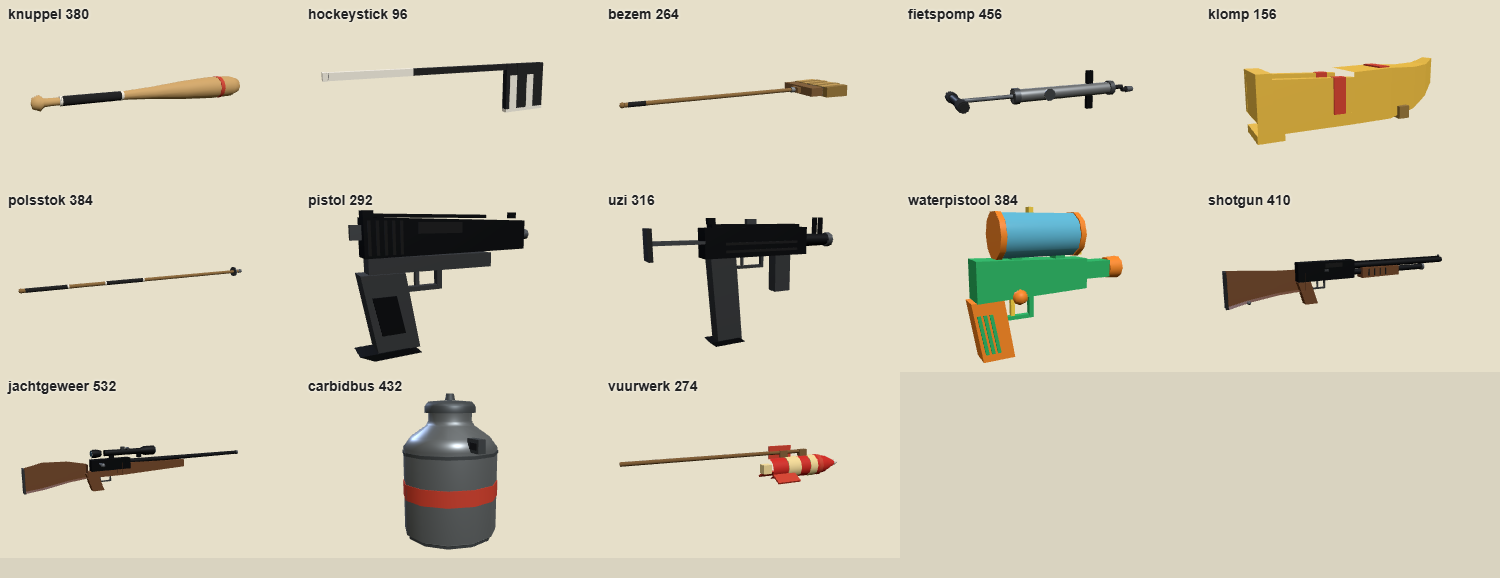
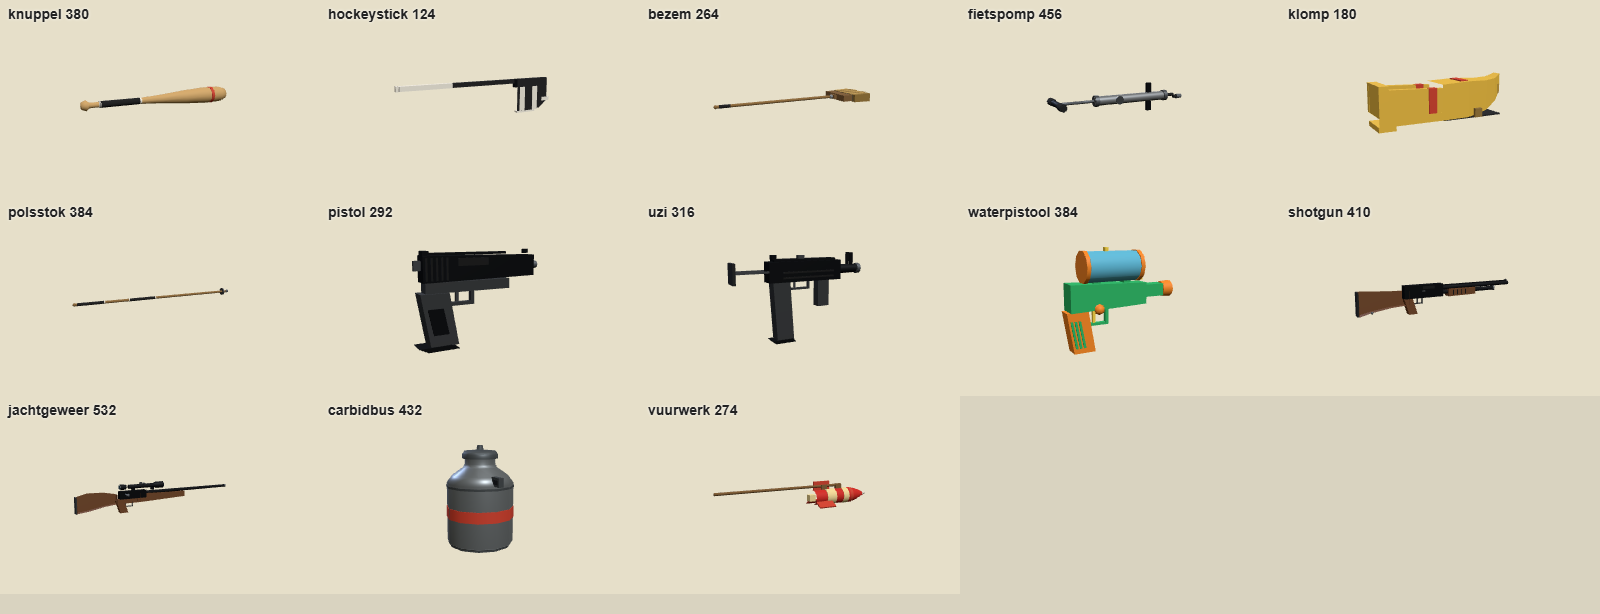
Spullen ronde 2: twaalf kale winkelblokjes krijgen een eigen model (spaarkaart, kauwgom, pakket, tv, ehbo, koek, drop, accu, remschijf, bureau, frituurpan, bed); hockeystick met gebogen blad, klomp met zool; test en beeldblad (#1086)

diff --git a/game/js/models3d_spullen.js b/game/js/models3d_spullen.js
@@ -199,7 +199,176 @@ function neonmeeuw(g, { kleur = 0xff4fa8 } = {}) {
   add(g, cyl(0.05, 0.05, 0.9, 6), mat(0x3a3e44, 0.5), 0, 0.5, 0);
 }
 
-const BOUWERS = { geld: money, vis, aanwijzing, geheim: secret, motor: engine, bredeband, sperdiff, uitlaat, mosterd, bel, neonmeeuw };
+// ---- Ronde 2 (spullen-r2): herkenbare modellen voor wat eerst een kaal winkelblokje was (12 tot 150 driehoeken). Geen tekst of merk;
+// elk ding heeft een eigen silhouet en twee tot vier materialen. Eenheden zoals hierboven (1 = 10 cm).
+
+// Spaarkaart: twee kaarten waaiervormig, voorop een stempelraster (gevulde en lege rondjes) en een lichte strook.
+function spaarkaart(g) {
+  add(g, box(5.4, 0.1, 3.4), mat(0x2f5c8a, 0.5), 0.35, 0.05, -0.15, 0, 0.22);
+  add(g, box(5.4, 0.12, 3.4), mat(0xc23f78, 0.5), 0, 0.16, 0);
+  add(g, box(5.4, 0.14, 0.7), mat(0xf0ede4, 0.6), 0, 0.17, -1.25);
+  for (let r = 0; r < 2; r++) for (let i = 0; i < 5; i++) {
+    const vol = r * 5 + i < 6;
+    add(g, cyl(0.3, 0.3, vol ? 0.1 : 0.04, 14), vol ? mat(0xe8c93a, 0.35, 0.7) : mat(0xf0ede4, 0.6), -2.0 + i * 1.0, 0.26, 0.25 + r * 1.0);
+  }
+  add(g, box(0.7, 0.06, 0.5), mat(0xe8c93a, 0.3, 0.8), 2.1, 0.25, 1.35); // chipje
+}
+
+// Kauwgom: een pakje met een opengescheurde bovenkant, folie en drie waaiervormige stukjes.
+function kauwgom(g) {
+  add(g, box(1.9, 0.5, 3.6), mat(0x1e5ea8, 0.5), 0, 0.25, 0);
+  add(g, box(1.94, 0.3, 1.2), mat(0xe8f4f8, 0.4), 0, 0.26, 0.9);
+  add(g, box(1.6, 0.05, 0.9), mat(0xc8ced2, 0.25, 0.85), 0, 0.52, -1.45);
+  for (let i = 0; i < 3; i++) add(g, box(1.3, 0.06, 2.4), mat(i % 2 ? 0xe8f4f8 : 0xcfe9ee, 0.5), 0, 0.62 + i * 0.07, -1.9, -0.25 - i * 0.12, (i - 1) * 0.12);
+  add(g, box(0.5, 0.52, 3.64), mat(0x3fb8c8, 0.5), -0.55, 0.26, 0);
+  add(g, box(0.18, 0.54, 3.64), mat(0xe8f4f8, 0.4), 0.55, 0.27, 0); // twee strepen over de lengte
+  add(g, box(1.9, 0.06, 0.3), mat(0xc8ced2, 0.25, 0.85), 0, 0.53, -1.8, -0.2, 0, 0); // gescheurde folierand
+  add(g, ball(0.2, 8), mat(0x6ad0a0, 0.5), 0.5, 0.55, 1.1).scale.set(1.2, 0.4, 1.0); // muntblaadje
+}
+
+// Pakket: een kartonnen doos met plakband kruislings, een adreslabel (zonder tekst) en een strikje.
+function pakket(g) {
+  add(g, box(3.6, 2.6, 2.8), mat(0xb08a58, 0.85), 0, 1.3, 0);
+  add(g, box(0.55, 0.05, 2.84), mat(0xd8c090, 0.4), 0, 2.62, 0); // tape over de bovenkant
+  add(g, box(0.55, 2.62, 0.05), mat(0xd8c090, 0.4), 0, 1.3, 1.42);
+  add(g, box(1.2, 0.8, 0.04), mat(0xf0ede4, 0.7), -0.9, 1.5, 1.44);
+  for (let i = 0; i < 3; i++) add(g, box(0.8 - i * 0.15, 0.06, 0.05), mat(0x4a4a50, 0.7), -0.9, 1.7 - i * 0.2, 1.47);
+  add(g, box(3.64, 0.14, 0.4), mat(0x9a7648, 0.9), 0, 2.45, -0.9, 0, 0, 0.02); // flap
+  add(g, new THREE.TorusGeometry(0.28, 0.04, 6, 12), mat(0xc8261e, 0.7), 0.9, 2.8, 0, Math.PI / 2, 0, 0);
+}
+
+// Televisie: een kijkdoos met scherm, twee knoppen, voetjes en een antenne.
+function tv(g) {
+  add(g, box(4.6, 3.2, 2.4), mat(0x2a2c30, 0.5), 0, 2.1, 0);
+  add(g, box(3.5, 2.4, 0.08), glow(0x6a9ac0, 0.55), -0.3, 2.15, 1.24);
+  add(g, box(0.7, 2.4, 0.08), mat(0x3a3e44, 0.5), 1.75, 2.15, 1.24);
+  for (let i = 0; i < 2; i++) add(g, cyl(0.17, 0.17, 0.14, 10), mat(0xb8bec4, 0.3, 0.8), 1.75, 2.7 - i * 0.55, 1.33, Math.PI / 2);
+  add(g, box(0.5, 0.3, 0.06), mat(0x5a5f66, 0.5), 1.75, 1.3, 1.28);
+  for (const x of [-1.8, 1.8]) add(g, box(0.5, 0.35, 1.8), mat(0x1b1c1f, 0.7), x, 0.18, 0);
+  add(g, cyl(0.05, 0.05, 2.4, 6), mat(METAAL, 0.3, 0.9), -0.7, 4.6, 0, 0, 0, 0.55);
+  add(g, cyl(0.05, 0.05, 2.4, 6), mat(METAAL, 0.3, 0.9), 0.7, 4.6, 0, 0, 0, -0.55);
+  add(g, cyl(0.45, 0.6, 0.3, 12), mat(0x1b1c1f, 0.6), 0, 3.85, 0);
+}
+
+// EHBO-doos: groen koffertje met wit kruis, hengsel, twee sluitingen en een rolletje verband ernaast.
+function ehbo(g) {
+  add(g, box(4.0, 2.8, 1.6), mat(0x1e9e56, 0.5), 0, 1.4, 0);
+  add(g, box(4.04, 0.12, 1.64), mat(0x137a41, 0.5), 0, 1.5, 0);
+  add(g, box(1.8, 0.5, 0.06), mat(0xf0ede4, 0.5), 0, 1.7, 0.83);
+  add(g, box(0.5, 1.8, 0.06), mat(0xf0ede4, 0.5), 0, 1.7, 0.83);
+  add(g, new THREE.TorusGeometry(0.7, 0.09, 6, 12, Math.PI), mat(0x2a2c30, 0.5), 0, 2.8, 0);
+  for (const x of [-1.4, 1.4]) add(g, box(0.45, 0.4, 0.14), mat(METAAL, 0.3, 0.9), x, 1.5, 0.84);
+  add(g, cyl(0.45, 0.45, 1.2, 14), mat(0xf0ede4, 0.8), 2.9, 0.45, 0.6, 0, 0, Math.PI / 2);
+  add(g, cyl(0.3, 0.3, 1.24, 12), mat(0xd8b898, 0.8), 2.9, 0.45, 0.6, 0, 0, Math.PI / 2);
+}
+
+// Koek: een stapeltje ronde koeken met een gegolfde rand, amandelschaafsel en suikerkorrels.
+function koek(g) {
+  for (let i = 0; i < 3; i++) {
+    const y = 0.22 + i * 0.4;
+    add(g, cyl(1.4 - i * 0.05, 1.45 - i * 0.05, 0.36, 18), mat(0x8a4a1e, 0.8), i * 0.1, y, 0, 0, i * 0.5);
+    for (let k = 0; k < 12; k++) {
+      const a = (k / 12) * Math.PI * 2 + i;
+      add(g, ball(0.17, 6), mat(0x6a3414, 0.8), Math.cos(a) * 1.38 + i * 0.1, y, Math.sin(a) * 1.38);
+    }
+  }
+  for (let k = 0; k < 6; k++) add(g, box(0.5, 0.05, 0.22), mat(0xe8d49a, 0.8), Math.cos(k * 1.1) * 0.7 + 0.2, 1.42, Math.sin(k * 1.1) * 0.7, 0, k * 0.9);
+  add(g, ball(0.1, 6), mat(0xf0ede4, 0.6), 0.3, 1.45, 0.2);
+}
+
+// Drop: een opgerolde dropwiel met geel hart, een handvol ruitjes en twee zeshoekige munten.
+function drop(g) {
+  const zwart = mat(0x151212, 0.3);
+  add(g, new THREE.TorusGeometry(1.0, 0.35, 8, 20), zwart, 0, 0.35, 0, Math.PI / 2, 0, 0);
+  add(g, new THREE.TorusGeometry(0.55, 0.3, 8, 16), zwart, 0, 0.35, 0, Math.PI / 2, 0, 0);
+  add(g, ball(0.3, 8), mat(0xe8c93a, 0.4), 0, 0.4, 0);
+  for (let i = 0; i < 4; i++) add(g, box(0.9, 0.35, 0.9), zwart, 2.2 + (i % 2) * 0.5, 0.18 + Math.floor(i / 2) * 0.35, -0.8 + i * 0.5, 0, 0.78 + i * 0.3);
+  add(g, cyl(0.6, 0.6, 0.22, 6), mat(0x23201f, 0.3), -2.2, 0.12, 0.6);
+  add(g, cyl(0.6, 0.6, 0.22, 6), mat(0x23201f, 0.3), -2.0, 0.34, 0.7, 0, 0.5);
+  add(g, ball(0.1, 5), mat(0xf0ede4, 0.7), 0.7, 0.72, 0.2);
+  add(g, ball(0.09, 5), mat(0xf0ede4, 0.7), -0.6, 0.72, -0.5);
+}
+
+// Accu: blok met groene bovenband, twee polen met kapjes, een draaggreep en vier lampjes.
+function accu(g) {
+  add(g, box(3.2, 2.2, 1.8), mat(0x1b1c1f, 0.5), 0, 1.1, 0);
+  add(g, box(3.3, 0.55, 1.9), mat(0x3fc97a, 0.4), 0, 2.2, 0);
+  for (const s of [-1, 1]) {
+    add(g, cyl(0.26, 0.3, 0.5, 10), mat(METAAL, 0.3, 0.9), s * 1.0, 2.7, -0.3);
+    add(g, cyl(0.31, 0.31, 0.18, 10), mat(s > 0 ? 0xc8261e : 0x2a2c30, 0.5), s * 1.0, 3.0, -0.3);
+  }
+  add(g, new THREE.TorusGeometry(0.7, 0.08, 6, 12, Math.PI), mat(0x2a2c30, 0.5), 0, 2.5, 0.45);
+  for (let i = 0; i < 4; i++) add(g, box(0.45, 0.14, 0.04), glow(0x3fc97a, 0.8), -0.95 + i * 0.63, 1.0, 0.92);
+}
+
+// Remschijf: geventileerde schijf met gaten, naaf met bouten en een rode remklauw met twee blokken.
+function schijf(g) {
+  add(g, cyl(2.4, 2.4, 0.3, 32), mat(0xb8bec4, 0.35, 0.9), 0, 2.6, 0, Math.PI / 2);
+  add(g, cyl(0.95, 0.95, 0.7, 20), mat(0x7a7f86, 0.4, 0.8), 0, 2.6, 0, Math.PI / 2);
+  for (let i = 0; i < 12; i++) {
+    const a = (i / 12) * Math.PI * 2;
+    add(g, cyl(0.16, 0.16, 0.34, 8), mat(DONKER, 0.9), Math.cos(a) * 1.7, 2.6 + Math.sin(a) * 1.7, 0, Math.PI / 2);
+  }
+  for (let i = 0; i < 5; i++) {
+    const a = (i / 5) * Math.PI * 2;
+    add(g, cyl(0.09, 0.09, 0.78, 6), mat(0x3a3e44, 0.3, 0.9), Math.cos(a) * 0.6, 2.6 + Math.sin(a) * 0.6, 0, Math.PI / 2);
+  }
+  add(g, box(1.6, 1.1, 1.1), mat(0xc8261e, 0.4, 0.3), 0, 4.55, 0);
+  add(g, box(1.0, 0.4, 0.14), mat(0x3a3e44, 0.6), 0, 3.85, 0);
+  add(g, cyl(0.2, 0.2, 0.5, 8), mat(METAAL, 0.3, 0.9), 0.5, 5.2, 0);
+}
+
+// Bureau: blad op een ladenblok en een zijpaneel, met laptop, mok en een leeslamp.
+function bureau(g) {
+  const hout = mat(0xa0764a, 0.65);
+  add(g, box(7.0, 0.3, 3.4), hout, 0, 3.4, 0);
+  add(g, box(2.2, 3.2, 3.0), mat(0x7a5632, 0.7), -2.3, 1.6, 0);
+  for (let i = 0; i < 3; i++) {
+    add(g, box(1.9, 0.9, 0.06), mat(0x8a6238, 0.7), -2.3, 0.55 + i * 1.0, 1.52);
+    add(g, box(0.7, 0.1, 0.1), mat(METAAL, 0.3, 0.9), -2.3, 0.65 + i * 1.0, 1.6);
+  }
+  add(g, box(0.3, 3.2, 3.0), hout, 3.2, 1.6, 0);
+  add(g, box(2.0, 0.12, 1.4), mat(0x6a6f76, 0.35, 0.7), 0.4, 3.62, 0.3);
+  add(g, box(2.0, 1.3, 0.1), mat(0x23262b, 0.4), 0.4, 4.3, -0.4, -0.25, 0, 0);
+  add(g, box(1.8, 1.05, 0.04), glow(0x6a9ac0, 0.5), 0.4, 4.3, -0.34, -0.25, 0, 0);
+  add(g, cyl(0.28, 0.25, 0.5, 10), mat(0xe8e2d0, 0.6), 2.4, 3.8, 0.8);
+  add(g, cyl(0.2, 0.3, 0.12, 10), mat(0x3a3e44, 0.5), 2.7, 3.62, -1.0);
+  add(g, cyl(0.04, 0.04, 1.4, 6), mat(0x3a3e44, 0.5), 2.7, 4.3, -1.0, 0, 0, -0.35);
+  add(g, cone3(0.4, 0.5), mat(0xe8c93a, 0.5), 2.3, 4.9, -1.0, 0, 0, Math.PI);
+}
+
+// Frituurpan: roestvrijstalen kast met twee mandjes (beugel en handgreep), bedieningsknoppen en een controlelampje.
+function frituur(g) {
+  const staal = mat(0xb8bec4, 0.35, 0.8);
+  add(g, box(5.4, 2.6, 3.0), staal, 0, 1.3, 0);
+  add(g, box(5.4, 0.25, 3.0), mat(0x8a8e94, 0.4, 0.7), 0, 2.72, 0);
+  for (const x of [-1.3, 1.3]) {
+    add(g, box(2.1, 0.12, 2.3), mat(0x3a2a14, 0.4), x, 2.86, -0.1);
+    add(g, box(1.9, 0.3, 2.1), mat(0x8a8e94, 0.3, 0.8), x, 3.0, -0.1);
+    add(g, cyl(0.13, 0.13, 1.7, 8), mat(0x2a2c30, 0.8), x, 3.55, 1.5, Math.PI / 2 + 0.3);
+    add(g, box(0.06, 0.6, 2.0), mat(0x6a6f76, 0.4, 0.7), x - 0.9, 3.3, -0.1);
+    add(g, box(0.06, 0.6, 2.0), mat(0x6a6f76, 0.4, 0.7), x + 0.9, 3.3, -0.1);
+  }
+  add(g, box(4.8, 0.9, 0.08), mat(0x2a2c30, 0.5), 0, 1.6, 1.52);
+  for (const x of [-1.3, 0, 1.3]) add(g, cyl(0.2, 0.2, 0.16, 10), mat(0xc8261e, 0.5), x, 1.6, 1.6, Math.PI / 2);
+  add(g, ball(0.12, 6), glow(0xff6a2a, 0.9), 2.0, 1.9, 1.58);
+  for (const x of [-2.4, 2.4]) add(g, cyl(0.2, 0.25, 0.3, 8), mat(0x1b1c1f, 0.7), x, 0.15, 1.2);
+}
+
+// Bed: houten frame met hoofd- en voeteneind, matras, deken en twee kussens.
+function bed(g) {
+  const hout = mat(0x8a5a2a, 0.65);
+  add(g, box(6.2, 0.7, 3.6), hout, 0, 0.7, 0);
+  for (const [x, z] of [[-2.9, -1.6], [2.9, -1.6], [-2.9, 1.6], [2.9, 1.6]]) add(g, box(0.4, 0.7, 0.4), hout, x, 0.35, z);
+  add(g, box(0.3, 2.4, 3.8), hout, -3.1, 1.6, 0);
+  add(g, box(0.3, 1.2, 3.8), hout, 3.1, 1.1, 0);
+  add(g, box(5.9, 0.7, 3.3), mat(0xf0ede4, 0.9), 0, 1.4, 0);
+  add(g, box(3.8, 0.78, 3.4), mat(0x3d6a9a, 0.85), 0.9, 1.45, 0);
+  add(g, box(3.8, 0.05, 0.5), mat(0xd8cfb4, 0.9), 0.9, 1.87, 1.5);
+  for (const z of [-0.8, 0.8]) add(g, ball(0.7, 8), mat(0xe8e2d0, 0.9), -2.2, 2.0, z).scale.set(1.2, 0.5, 1.0);
+}
+
+const BOUWERS = { geld: money, vis, aanwijzing, geheim: secret, motor: engine, bredeband, sperdiff, uitlaat, mosterd, bel, neonmeeuw, spaarkaart, kauwgom, pakket, tv, ehbo, koek, drop, accu, schijf, bureau, frituur, bed };
 export const SPUL_TYPES = Object.keys(BOUWERS);
 
 // Het model voor { type, ...parameters }, of null voor een onbekende soort (de viewer valt dan terug op het icoon).

diff --git a/game/js/models3d_weapons.js b/game/js/models3d_weapons.js
@@ -257,11 +257,12 @@ function hockeystick() {
     ['rubber', box(-0.2, 0.76, -0.0135, 0.0135, -0.0115, 0.0115)], // schacht
     ['tape', box(-0.205, 0.12, -0.0147, 0.0147, -0.0127, 0.0127)], // witte greeptape
     ['tape', box(-0.22, -0.205, -0.016, 0.016, -0.014, 0.014)], // eindknop
-    ['rubber', box(0.58, 0.8, -0.2, 0.0135, -0.0145, 0.0145, { front: 1.0 })], // blad
-    ['rubber', box(0.64, 0.8, -0.05, 0.0135, -0.0145, 0.0145)], // hiel
+    ['rubber', loft([[0.58, -0.2, 0.0135, -0.0145, 0.0145], [0.68, -0.208, 0.0135, -0.0145, 0.0145], [0.76, -0.19, 0.0135, -0.0145, 0.0145], [0.82, -0.14, 0.0135, -0.0145, 0.0145]])], // gebogen blad met opkrullende teen
+    ['steel', box(0.56, 0.62, -0.04, 0.0135, -0.0125, 0.0125)], // hiel van de schacht naar het blad
+    ['tape', box(0.78, 0.84, -0.145, -0.12, -0.0158, 0.0158)], // tape op de teen
     ['tape', box(0.6, 0.64, -0.2, -0.04, -0.0158, 0.0158)], // tapewikkels op het blad
     ['tape', box(0.7, 0.74, -0.2, -0.04, -0.0158, 0.0158)],
-    ['tape', box(0.58, 0.8, -0.215, -0.2, -0.0155, 0.0155)], // teenkap
+    ['tape', box(0.58, 0.72, -0.212, -0.2, -0.0155, 0.0155)], // tape langs de onderrand
   ];
 }
 
@@ -316,6 +317,8 @@ function klomp() {
     ...mir([['tulip', box(0.045, 0.07, -0.02, 0.052, 0.0365, 0.0555)]]), // tulpband
     ['tulip', box(0.16, 0.185, 0.054, 0.0665, -0.034, 0.034)],
     ['strawDark', box(0.2, 0.225, -0.047, -0.02, -0.054, 0.054)], // nagelrand
+    ['rubber', box(0.1, 0.3, -0.049, -0.045, -0.044, 0.044)], // dun zoolrubber onder de voorvoet
+    ['strawDark', box(0.285, 0.31, 0.015, 0.045, -0.02, 0.02)], // houten opkrul bij de punt
   ];
 }
 

diff --git a/game/js/spullen3d.js b/game/js/spullen3d.js
@@ -8,7 +8,9 @@
 // (#429); de viewer is lokaal en stuurt niets. Test: scripts/spullen3d_test.mjs, dekking: scripts/ui/spullen3d_dekking.mjs.
 
 const spul = (type, extra = {}) => ({ kind: 'spul', spul: { type, ...extra } });
-const product = (key) => ({ kind: 'product', product: key });
+// Ronde 2 (spullen-r2): wat in de winkel een kaal blokje is, heeft hier een eigen, rijker model (models3d_spullen.js) onder dezelfde naam.
+export const SPUL_MODEL_VOOR = new Set(['spaarkaart', 'kauwgom', 'pakket', 'tv', 'ehbo', 'koek', 'drop', 'accu', 'schijf', 'bureau', 'frituur', 'bed']);
+const product = (key) => (SPUL_MODEL_VOOR.has(key) ? spul(key) : { kind: 'product', product: key });
 
 // Geld: hoe dik de stapels zijn, per bedrag (niveau 0 tot 3).
 export const moneyTier = (bedrag) => { const b = Number(bedrag) || 0; return b < 50 ? 0 : b < 500 ? 1 : b < 5000 ? 2 : 3; };
